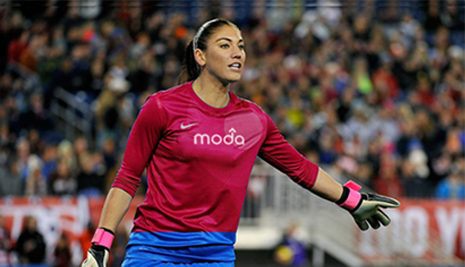
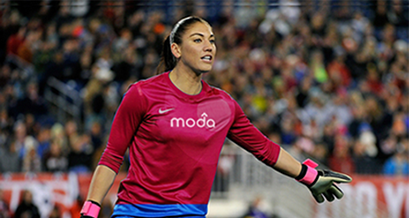
done but with errors on the page

diff --git a/app/components/flexslider/flexslider.css b/app/components/flexslider/flexslider.css
@@ -12,7 +12,7 @@
 
 /* Browser Resets
 *********************************/
-.flex-container a:active,
+/*.flex-container a:active,
 .flexslider a:active,
 .flex-container a:focus,
 .flexslider a:focus  {outline: none;}
@@ -20,77 +20,4 @@
 .flex-control-nav,
 .flex-direction-nav {margin: 0; padding: 0; list-style: none;}
 
-/* Icon Fonts
-*********************************/
-/* Font-face Icons */
-@font-face {
-	font-family: 'flexslider-icon';
-	src:url('fonts/flexslider-icon.eot');
-	src:url('fonts/flexslider-icon.eot?#iefix') format('embedded-opentype'),
-		url('fonts/flexslider-icon.woff') format('woff'),
-		url('fonts/flexslider-icon.ttf') format('truetype'),
-		url('fonts/flexslider-icon.svg#flexslider-icon') format('svg');
-	font-weight: normal;
-	font-style: normal;
-}
-
 /* FlexSlider Necessary Styles
-*********************************/
-.flexslider {margin: 0; padding: 0;}
-.flexslider .slides > li {display: none; -webkit-backface-visibility: hidden;} /* Hide the slides before the JS is loaded. Avoids image jumping */
-.flexslider .slides img {width: 100%; display: block;}
-.flex-pauseplay span {text-transform: capitalize;}
-
-/* Clearfix for the .slides element */
-.slides:after {content: "\0020"; display: block; clear: both; visibility: hidden; line-height: 0; height: 0;}
-html[xmlns] .slides {display: block;}
-* html .slides {height: 1%;}
-
-/* No JavaScript Fallback */
-/* If you are not using another script, such as Modernizr, make sure you
- * include js that eliminates this class on page load */
-.no-js .slides > li:first-child {display: block;}
-
-/* FlexSlider Default Theme
-*********************************/
-.flexslider { margin: 0 0 60px; background: #fff; border: 4px solid #fff; position: relative; -webkit-border-radius: 4px; -moz-border-radius: 4px; -o-border-radius: 4px; border-radius: 4px; -webkit-box-shadow: 0 1px 4px rgba(0,0,0,.2); -moz-box-shadow: 0 1px 4px rgba(0,0,0,.2); -o-box-shadow: 0 1px 4px rgba(0,0,0,.2); box-shadow: 0 1px 4px rgba(0,0,0,.2); zoom: 1; }
-.flex-viewport { max-height: 2000px; -webkit-transition: all 1s ease; -moz-transition: all 1s ease; -o-transition: all 1s ease; transition: all 1s ease; }
-.loading .flex-viewport { max-height: 300px; }
-.flexslider .slides { zoom: 1; }
-.carousel li { margin-right: 5px; }
-
-/* Direction Nav */
-.flex-direction-nav {*height: 0;}
-.flex-direction-nav a  { text-decoration:none; display: block; width: 40px; height: 40px; margin: -20px 0 0; position: absolute; top: 50%; z-index: 10; overflow: hidden; opacity: 0; cursor: pointer; color: rgba(0,0,0,0.8); text-shadow: 1px 1px 0 rgba(255,255,255,0.3); -webkit-transition: all .3s ease; -moz-transition: all .3s ease; transition: all .3s ease; }
-.flex-direction-nav .flex-prev { left: -50px; }
-.flex-direction-nav .flex-next { right: -50px; text-align: right; }
-.flexslider:hover .flex-prev { opacity: 0.7; left: 10px; }
-.flexslider:hover .flex-next { opacity: 0.7; right: 10px; }
-.flexslider:hover .flex-next:hover, .flexslider:hover .flex-prev:hover { opacity: 1; }
-.flex-direction-nav .flex-disabled { opacity: 0!important; filter:alpha(opacity=0); cursor: default; }
-.flex-direction-nav a:before  { font-family: "flexslider-icon"; font-size: 40px; display: inline-block; content: '\f001'; }
-.flex-direction-nav a.flex-next:before  { content: '\f002'; }
-
-/* Pause/Play */
-.flex-pauseplay a { display: block; width: 20px; height: 20px; position: absolute; bottom: 5px; left: 10px; opacity: 0.8; z-index: 10; overflow: hidden; cursor: pointer; color: #000; }
-.flex-pauseplay a:before  { font-family: "flexslider-icon"; font-size: 20px; display: inline-block; content: '\f004'; }
-.flex-pauseplay a:hover  { opacity: 1; }
-.flex-pauseplay a.flex-play:before { content: '\f003'; }
-
-/* Control Nav */
-.flex-control-nav {width: 100%; position: absolute; bottom: -40px; text-align: center;}
-.flex-control-nav li {margin: 0 6px; display: inline-block; zoom: 1; *display: inline;}
-.flex-control-paging li a {width: 11px; height: 11px; display: block; background: #666; background: rgba(0,0,0,0.5); cursor: pointer; text-indent: -9999px; -webkit-border-radius: 20px; -moz-border-radius: 20px; -o-border-radius: 20px; border-radius: 20px; -webkit-box-shadow: inset 0 0 3px rgba(0,0,0,0.3); -moz-box-shadow: inset 0 0 3px rgba(0,0,0,0.3); -o-box-shadow: inset 0 0 3px rgba(0,0,0,0.3); box-shadow: inset 0 0 3px rgba(0,0,0,0.3); }
-.flex-control-paging li a:hover { background: #333; background: rgba(0,0,0,0.7); }
-.flex-control-paging li a.flex-active { background: #000; background: rgba(0,0,0,0.9); cursor: default; }
-
-.flex-control-thumbs {margin: 5px 0 0; position: static; overflow: hidden;}
-.flex-control-thumbs li {width: 25%; float: left; margin: 0;}
-.flex-control-thumbs img {width: 100%; display: block; opacity: .7; cursor: pointer;}
-.flex-control-thumbs img:hover {opacity: 1;}
-.flex-control-thumbs .flex-active {opacity: 1; cursor: default;}
-
-@media screen and (max-width: 860px) {
-  .flex-direction-nav .flex-prev { opacity: 1; left: 10px;}
-  .flex-direction-nav .flex-next { opacity: 1; right: 10px;}
-}

diff --git a/app/styles/_flexslider.scss b/app/styles/_flexslider.scss
@@ -1,0 +1,130 @@
+/*
+ * jQuery FlexSlider v2.2.0
+ * http://www.woothemes.com/flexslider/
+ *
+ * Copyright 2012 WooThemes
+ * Free to use under the GPLv2 license.
+ * http://www.gnu.org/licenses/gpl-2.0.html
+ *
+ * Contributing author: Tyler Smith (@mbmufffin)
+ */
+
+
+/* Browser Resets
+*********************************/
+.flex-container a:active,
+.flexslider a:active,
+.flex-container a:focus,
+.flexslider a:focus  {outline: none;}
+.slides,
+.flex-control-nav {margin: 0; padding: 0; list-style: none;}
+
+/* FlexSlider Necessary Styles
+*********************************/
+//.flexslider {margin: 0; padding: 0;}
+.flexslider .slides > li {display: none; -webkit-backface-visibility: hidden;} /* Hide the slides before the JS is loaded. Avoids image jumping */
+.flexslider .slides img {width: 100%; display: block;}
+
+/* Clearfix for the .slides element */
+.slides:after {content: "\0020"; display: block; clear: both; visibility: hidden; line-height: 0; height: 0;}
+html[xmlns] .slides {display: block;}
+* html .slides {height: 1%;}
+
+/* No JavaScript Fallback */
+/* If you are not using another script, such as Modernizr, make sure you
+ * include js that eliminates this class on page load */
+.no-js .slides > li:first-child {display: block;}
+
+/* FlexSlider Default Theme
+*********************************/
+.flexslider { 
+	background: #fff; 
+	position: relative; 
+
+	&, .slides {
+		zoom: 1;
+	}
+}
+
+.flex-viewport { 
+	max-height: 2000px; 
+	/*-webkit-transition: all 1s ease; 
+	-moz-transition: all 1s ease; 
+	-o-transition: all 1s ease; 
+	transition: all 1s ease; */
+	@include transition(all, 1s, ease-in-out);
+}
+
+.loading .flex-viewport { max-height: 300px; }
+
+.carousel li { margin-right: 5px; }
+
+/* Control Nav */
+.flex-control-nav {
+	width: 100%; 
+	position: absolute; 
+	bottom: -35px; 
+	text-align: center;
+
+	li {
+		margin: 0 6px; 
+		display: inline-block; 
+		zoom: 1; 
+		
+		&.oldie {*display: inline;}
+
+		a{
+			display: block; 
+			cursor: pointer; 
+			text-indent: -9999px;
+			&.flex-active {
+				cursor: default;
+			}
+		}
+	}
+}
+
+#inSlider {
+	border:$border_color_brown 1px solid;
+	img {
+		padding:10px;
+	}
+
+	li {
+		padding-bottom:0;
+	}
+}
+
+.news-detail {
+	h2 {
+		color: $menu_brown;
+		font-size: $med;
+		font-weight: $font-weight-bold;
+		margin-top: 35px;
+	}
+	p {
+		font-size: $norm;
+	}
+	a {
+		color: $teal;
+	}
+}
+
+.flex-control-paging li {
+	a {
+		width: 20px; 
+		height: 20px; 
+		background: $menu_brown; 
+		
+		&:hover {
+			background: #333; 
+			background: rgba(0,0,0,0.7); 
+		}
+		
+		&.flex-active {
+			background: $modern_yellow;
+			border: $menu_brown 1px solid;
+		}
+	}
+
+}

diff --git a/app/master-slider.html b/app/master-slider.html
@@ -34,7 +34,6 @@
 	<meta name="viewport" content="width=device-width, initial-scale=1.0, maximum-scale=1">
 
 	<link rel="stylesheet" href="styles/gumby.css">
-	<link rel="stylesheet" href="components/flexslider/flexslider.css">
 	
 	<script src="scripts/libs/modernizr-2.6.2.min.js"></script>
 </head>
@@ -115,7 +114,7 @@
 			<div class="flexslider" id="inSlider">
 			  <ul class="slides">
 			    <li>
-			      <img src="/images/news-slider/w2.png" class="five columns"/>
+			      <img src="/images/news-slider/w2.png" class="six columns"/>
 			      <div class="news-detail six columns">
 			      		<h2>2013 W-2's available on iPay</h2>
 			      		<p>That’s right 2013 W2’s are available in iPay statements. To access the W2’s, login to iPay, check W2 Statements and 2013 tax year.  Paper copies of W2’s will be distributed on our next payday (1/24/2014)</p>
@@ -123,7 +122,7 @@
 			      </div>
 			    </li>
 			    <li>
-			      <img src="/images/news-slider/thorn.png" class="five columns"/>
+			      <img src="/images/news-slider/thorn.png" class="six columns"/>
 			      <div class="news-detail six columns">
 			      		<h2>2013 W-2's available on iPay</h2>
 			      		<p>That’s right 2013 W2’s are available in iPay statements. To access the W2’s, login to iPay, check W2 Statements and 2013 tax year.  Paper copies of W2’s will be distributed on our next payday (1/24/2014)</p>
@@ -131,7 +130,7 @@
 			      </div>
 			    </li>
 			     <li>
-			      <img src="/images/news-slider/thorn2.png" class="five columns"/>
+			      <img src="/images/news-slider/thorn2.png" class="six columns"/>
 			      <div class="news-detail six columns">
 			      		<h2>Soccer</h2>
 			      		<p>Blah blah blah tetxt</p>
@@ -192,7 +191,7 @@
 	<script src="components/flexslider/jquery.flexslider.js"></script>
 	
 	<!-- insider js-->
-	<script defer src="scripts/insider.js"></script>
-
+	<script src="scripts/insider.js"></script>
+	
 	</body>
 </html>

diff --git a/app/styles/_moda_brand_color.scss b/app/styles/_moda_brand_color.scss
@@ -1,0 +1,36 @@
+// moda brand color variables
+
+// plums
+$modern_plum: #a50069; //rgba(165,0,105, 1)
+$modern_plum_light: #c25f92; //rgba(194,95,146,1)
+
+$primary_button_plum: #650141; //rgba(101,1,65,1)
+$copyright_text_plum: #cb74A0; //rgba(203,116,160,1)
+$inactive_button_plum: #e1abc3; //rgba(225,171,195,1)
+$secondary_button_plum: #f2d9e9; //rgba(242,217,233,1)
+
+// browns
+$warm_brown: #493b31; //rgba(73,59,49,1)
+$menu_brown: #5c4f46; //rgba(92,79,70, 1) 
+$label_back_button_brown: #716156; //rgba(113,97,86,1)
+$network_text_brown: #80766f; //rgba(128,118,111,1)
+$inactive_text_brown: #9a938d; //rgba(154,147,141,1)
+$watermark_text_brown: #a49d98; //rgba(164,157,152, 1)
+$border_color_brown: #b8b0ab; //rgba(184,176,171,1)
+$title_bar_brown: #bab2ad; //rgba(186,178,173,1)
+$link_row_01_brown: #b6b1ad; //rgba(182,177,173,1)
+$link_row_02_brown: #dbd8d6; //rgba(219,216,214,1)
+$inactive_secondary_brown: #d0cbc8; //rgba(208,203,200, 1)
+$page_background_brown: #ecebea; //rgba(236,235,234,1)
+$back_button_brown: #f4f4f4; //rgba(244,244,244, 1)
+
+// yellows
+$modern_yellow: #ffe92c; //rgba(255,233,44,1)
+$background_yellow: #fded65; //rgba(253,237,101,1)
+$alert_yellow: #fef9ce; //rgba(254,249,206,1)
+
+// aqua and teal
+$modern_aqua: #2fb5b7; //rgba(47,181,183,1)
+$teal: #0098aa; //rgba(0,152,170,1)
+$vertical_line_teal: #8cd6d7; //rgba(140,214,215,1)
+$label_background_teal: #eaf7f8; //rgba(234,247,248,1)

diff --git a/app/styles/_custom.scss b/app/styles/_custom.scss
@@ -1,14 +1,12 @@
 // Your custom SCSS should be written here...
 
 @import"_omnes_moda_normal";
+@import"_moda_brand_color";
+@import"_flexslider";
 
 body {
   font-family: "omnes_ods_mediumroman" !important;
   .testing {
     font-family: "omnes_ods_mediumroman";
   }
-}
-
-#inSlider {
-	border:$flex-border-color 1px solid;
 }

diff --git a/app/scripts/insider.js b/app/scripts/insider.js
@@ -1,6 +1,7 @@
 // Can also be used with $(document).ready()
-$(document).ready(function() {
+jQuery(function($){
   $('.flexslider').flexslider({
-    animation: "slide"
+	animation: "slide",
+	directionNav: false
   });
 });
